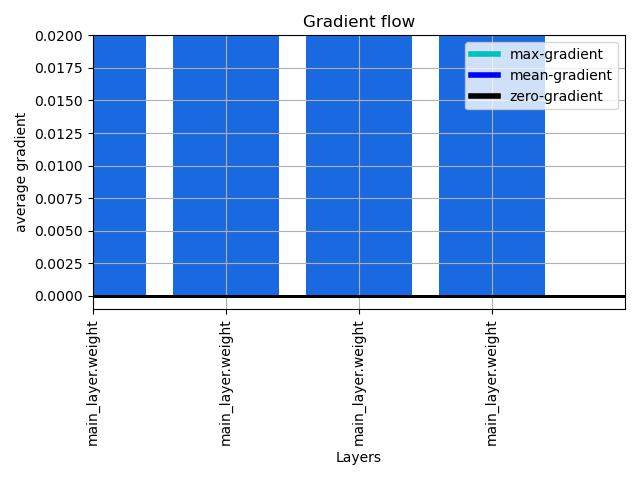
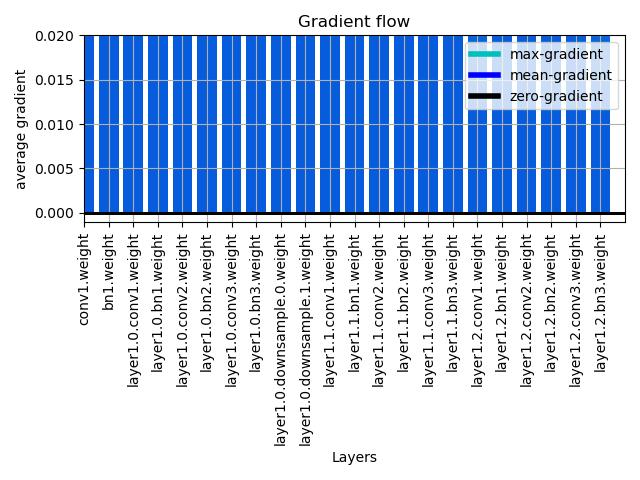
minor improvements

diff --git a/testing.py b/testing.py
@@ -5,6 +5,7 @@ import torchvision
 from torchvision import transforms
 from torchvision.models import resnet50, vit_b_16
 
+from tqdm import tqdm
 
 # Define the CNN architecture
 # class SimpleCNN(nn.Module):
@@ -39,12 +40,7 @@ from torch.optim import Adam
 save_path = 'save_folder'
 wrapped_model = Master_analyzer(model,
                                 optimizer = Adam(model.parameters(), lr=0.001),
-                                save_folder = save_path,
-                                layer_inds = [0, 1, 2, 3, 4],
-                                grad_flag = False,
-                                grad_hist_flag = False,
-                                track_grads = False,
-                                function_flag = False)
+                                save_folder = save_path)
 
 print(wrapped_model)
 
@@ -69,21 +65,37 @@ testset = torchvision.datasets.CIFAR10(
     download=True,
     transform=transform
 )
-testloader = torch.utils.data.DataLoader(testset, batch_size=32, shuffle=False)
+
+subset_indices = list(range(96))  # Indices of the first 10 samples
+subset = torch.utils.data.Subset(testset, subset_indices)
+
+testloader = torch.utils.data.DataLoader(subset, batch_size=32, shuffle=False)
 
 classes = ('plane', 'car', 'bird', 'cat', 'deer', 'dog', 'frog', 'horse', 'ship', 'truck')
 
 
+wrapped_model.initialize_analyser(layer_inds = [0, 1, 2, 3, 4],
+                                grad_flag = True,
+                                grad_hist_flag = True,
+                                track_grads = True,
+                                function_flag = False)
+
 ## Testing using a dummy dataset
-Epochs = 10
+Epochs = 5
 for epoch in range(Epochs):
-    for i, data in enumerate(trainloader, 0):
+    
+    losses = []
+    for data in tqdm(testloader):
         inputs, labels = data
         wrapped_model.optimizer.zero_grad()
         outputs = wrapped_model.forward_propagation(inputs)
         loss = F.cross_entropy(outputs, labels)
         wrapped_model.backward_propagation(loss)
-        print('Loss: ', loss.item())
+        
+        losses.append(loss.item())
+    
+    print('Epoch: ', epoch)
+    print('Average Loss: ', sum(losses)/len(losses))
 
 
 # wrapped_model.visualize_weight_hist('O:\\PCodes\\black_box\\save_folder\\Weights')
@@ -92,16 +104,16 @@ for epoch in range(Epochs):
 
 wrapped_model.save_tracked_data()
 
-for name, module in wrapped_model.model.named_children():
-    if module.Trainable:
-        print('name: ', name)
-        print('module: ', module)
-        print('module index: ', module.index)
-        print('module name: ', module.name)
-        print('module track flag: ', module.track_flag)
-        print('module main layer: ', module.main_layer)
-        print('module master tracker: ', module.master_tracker)
-        print('module master tracker L1: ', module.master_tracker['L1'])
-        print('module master tracker L2: ', module.master_tracker['L2'])
-        print('module master tracker L1 len: ', len(module.master_tracker['L1']))
-        print('module master tracker L2 len: ', len(module.master_tracker['L2']))
+# for name, module in wrapped_model.model.named_children():
+#     if module.Trainable:
+#         print('name: ', name)
+#         print('module: ', module)
+#         print('module index: ', module.index)
+#         print('module name: ', module.name)
+#         print('module track flag: ', module.track_flag)
+#         print('module main layer: ', module.main_layer)
+#         print('module master tracker: ', module.master_tracker)
+#         print('module master tracker L1: ', module.master_tracker['L1'])
+#         print('module master tracker L2: ', module.master_tracker['L2'])
+#         print('module master tracker L1 len: ', len(module.master_tracker['L1']))
+#         print('module master tracker L2 len: ', len(module.master_tracker['L2']))

diff --git a/BBDecoder/__init__.py b/BBDecoder/__init__.py
@@ -11,54 +11,54 @@ class Master_analyzer(GradAnalyzer, LayerAnalyzer):
     def __init__(self,
                  model,
                  optimizer,
-                 save_folder,
-                 layer_inds = None,
-                 grad_flag = False,
-                 grad_hist_flag = False,
-                 track_grads = False,
-                 function_flag = False,
+                 save_folder
                  ):
         """
         model: Model to be analyzed.
         optimizer: Optimizer used to train the model.
         save_folder: Folder to save all results and plots.
-        layer_inds: List of indices of the layers to be analyzed.
-        grad_flag: Flag to plot the gradient flow.
-        grad_hist_flag: Flag to plot the gradient histograms.
-        track_grads: Flag to track the gradients L1 and L2 norms.
-        function_flag: Flag to plot the function flow.
         """
         
         self.model = model
         self.optimizer = optimizer
         self.save_folder = save_folder
+
+        self.layer_inds = None
+        self.grad_flag = None
+        self.grad_hist_flag = None
+        self.track_grads = None
+        self.function_flag = None
+
+        self.layer_names = []
+
+        self.wrap_layers()
+        print('----- List of layer and their indices -----')
+        list_layers(self.model)
+
+    def initialize_analyser(self, layer_inds, grad_flag, grad_hist_flag, track_grads, function_flag):
+        '''
+        layer_inds: List of indices of the layers to be analyzed.
+        grad_flag: Flag to plot the gradient flow.
+        grad_hist_flag: Flag to plot the gradient histograms.
+        track_grads: Flag to track the gradients L1 and L2 norms.
+        function_flag: Flag to plot the function flow.
+        '''
+
         self.layer_inds = layer_inds
         self.grad_flag = grad_flag
         self.grad_hist_flag = grad_hist_flag
         self.track_grads = track_grads
         self.function_flag = function_flag
 
-        self.layer_names = []
-
-        print('----- List of layer and their indices -----')
-        self.wrap_layers()
-        print('--------------------------------------------')
-        print(self.model)
-        list_layers(self.model)
-
-
     def wrap_layers(self):
         for z, (name, module) in enumerate(self.model.named_children()):
             self.layer_names.append(name)
             
-            print('****** ', module)
             if isinstance(module, nn.Module) or isinstance(module, nn.Sequential):#and not list(module.children()):  
                 setattr(self.model, name, Main_wrapper(module, name, z, self.track_grads))
             # else:
                 # Recursively wrap layers in submodules (if any)
                 # Main_wrapper(module, name, z, False)
-        
-        print('----- Wrapped Layers -----')
 
 
     def forward_propagation(self, x):
@@ -68,6 +68,7 @@ class Master_analyzer(GradAnalyzer, LayerAnalyzer):
         self.optimizer.zero_grad()
         loss.backward()
 
+        # print('//////// ', self.layer_inds, self.grad_flag)
         if self.layer_inds is not None:
             if self.grad_flag:
                 self.check_grads()

diff --git a/BBDecoder/analysis/grad_stats.py b/BBDecoder/analysis/grad_stats.py
@@ -33,7 +33,8 @@ class GradAnalyzer():
                 for n, p in module.named_parameters():
                     if(p.requires_grad) and ("bias" not in n):
                         try:
-                            layers.append(n)
+                            nn = n.replace('main_layer', module.name)
+                            layers.append(nn)
                             ave_grads.append(p.grad.abs().mean().item())
                             max_grads.append(p.grad.abs().max().item())
                             if self.grad_hist_flag:

diff --git a/BBDecoder/analysis/layer_stats.py b/BBDecoder/analysis/layer_stats.py
@@ -15,9 +15,7 @@ class LayerAnalyzer():
         for name, module in self.model.named_children():
             if module.index in self.layer_inds:
                 
-                print('---- outside  ', module.name)
                 if hasattr(module.main_layer, 'weight'):
-                    print('---- inside  ', module.name)
                     weights = module.main_layer.weight.detach().cpu().numpy().flatten()
 
                     plt.figure()

diff --git a/BBDecoder/visualizer/vis_main.py b/BBDecoder/visualizer/vis_main.py
@@ -6,8 +6,6 @@ import dis
 
 def list_layers(model):
     for name, module in model.named_children():
-        print('=== name: ', name)
-        print('=== module: ', module)
         print(f"Layer Index: {module.index}, Layer Name: {module.name}")
 
 def create_graphviz_graph(model, input_tensor):

diff --git a/README.md b/README.md
@@ -9,3 +9,6 @@
 - Saturation in activation functions (percentage of neuron values saturated).
 - variance across channels (accross a certain selected dimension).
 - Check operation being performed (function graph). Create a separate activation wrapper?
+
+## ETC
+- Mean of each itteration is not added (for gradient graphs, L1 and L2 norms)
